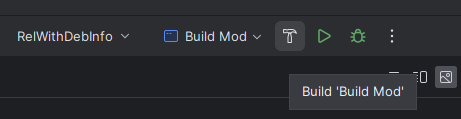
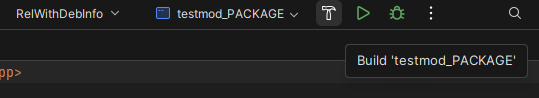
Update CLion docs + add linux (#64)
* update tutorial for clion

* add linux clion docs

diff --git a/getting-started/ide-setup.md b/getting-started/ide-setup.md
@@ -128,43 +128,74 @@ If there are errors similar to VS Code (such as `#include <Geode/modify/MenuLaye
 
 # CLion
 
-No additional plugins are needed - the only thing you need to do is to set the CMake options correctly. When you open your mod's directory in CLion for the first time, you'll be met with an Open Project Wizard:
+* [CLion on Windows](#clion-on-windows)
+* [CLion on Linux](#clion-on-linux)
+
+## CLion on Windows
+
+No additional plugins are needed - the only thing you need to do is to configure your toolchain correctly. When you open your mod's directory in CLion for the first time, you'll be met with an Open Project Wizard:
 
 ![Image showing the CLion Open Project Wizard](/assets/clion_openprojectwizard.png)
 
-Here you need to make sure that:
+If this is the first time you're launching CLion, click the "Manage toolchains..." button, which will open a window where you can add a new toolchain.
 
-1. Build type is set to `Release` or `RelWithDebInfo`; it cannot be Debug
-2. Toolchain is set to *Visual Studio*
-3. Generator is set to *Visual Studio 17 2022* or newer
-4. Build directory is set to *build*
+Here's an example of how to set up Visual Studio toolchain:
+
+![Image showing configured Visual Studio toolchain in CLion](/assets/clion_toolchainmsvc.png)
+
+And here's an example of how to set up Clang toolchain:
+
+![Image showing configured Clang toolchain in CLion](/assets/clion_toolchainllvm.png)
+
+After that, in the Open Project Wizard, you need to make sure that:
+
+1. Build type is set to `Release` or `RelWithDebInfo` (we recommend `RelWithDebInfo`, since `Debug` might cause obscure crashes)
+2. Toolchain is set to *Visual Studio* or *Clang/LLVM*
+3. Generator is set to *Visual Studio 17 2022* or *Ninja* (if you have it installed)
 
 In the end it should look like this:  
 
 ![Image showing the CLion Open Project Wizard set up for Geode](/assets/clion_openprojectwizardsetup.png)
 
-Now you can press OK and CMake will run for the first time. The setup **will fail** until you build the project for the first time. In order to do that, go to the top right corner of the window where you'll see a dropdown saying `Add Configuration`.
+Now you can press OK and CMake will run for the first time. Wait until it finishes, and you should see a dropdown in the top right corner of the window that says `NameOfTheMod` (or whatever you called your project).
+Click on it, and pick `NameOfTheMod_PACKAGE` instead, which will trigger post build steps and package/install the mod to Geometry Dash.
 
-![Image showing the CLion Add Configuration dropdown](/assets/clion_addconfiguration.png)
+![Image showing the CLion Configuration dropdown](/assets/clion_addconfiguration.png)
 
-Click it and choose `Edit Configurations` and you'll be met with the Run/Debug Configurations window. Inside of it, click the plus button in the top left corner of the window and choose `CMake Application` from the popup:
-
-![Image showing the CLion Run/Debug Configurations window](/assets/clion_rundebugwindow.png)
-
-In the created configuration, click the `Target` dropdown and choose `All Targets`. You can also change the name to something else than "Unnamed".  
-
-![Image showing the CLion Run/Debug Configurations window with a configuration set up to compile the mod](/assets/clion_rundebugsetup.png)
-
-Once that's done, you can click Apply and then OK. If it hasn't already, wait for CMake to finish its run. It might look something like this, with a line at the end saying `[Failed to reload]`.
-
-![Image showing the failed CMake run output](/assets/clion_cmakerunfailed.png)
-
-Now click the hammer icon in the top right corner next to build the mod for the first time - **make sure that the dropdowns next to it say `RelWithDebInfo` and `Build Mod`** (or however you called your build task in the step before):
+Now click the hammer icon in the top right corner next to build the mod:
 
 ![Image showing the build button in CLion](/assets/clion_buildmod.png)
 
-The build should end with a message saying `Build finished` and (assuming you ran `geode config setup` before) the mod should now be installed to Geometry Dash. In order to make all the IDE features work correctly, reload CMake now, this run should end successfully with a message saying `[Finished]` at the end: 
+The build should end with a message saying `Build finished` and (assuming you ran `geode config setup` before) the mod should now be installed to Geometry Dash.
+
+Don't forget to reload CMake after you add new files to the project.
 
 ![Image showing how to rerun CMake in CLion](/assets/clion_reloadcmake.png)
 
-Don't forget to reload CMake after you add new files to the project.
+## CLion on Linux
+
+Pretty much the same as on [Windows](#clion-on-windows) except for setting up the toolchain.
+
+First step is to create an environment file with the following content:
+
+```bash
+export GEODE_SDK=$HOME/Documents/Geode
+export SPLAT_DIR=$HOME/.local/share/Geode/cross-tools/splat
+export CMAKE_TOOLCHAIN_FILE=$HOME/.local/share/Geode/cross-tools/clang-msvc-sdk/clang-msvc.cmake
+export HOST_ARCH=x86_64
+```
+
+If the toolchain and/or splat weren't installed via `geode sdk install-linux`, modify the paths accordingly.
+
+Save it as `geode-env.sh` in your home directory (or wherever you want, just remember the path).
+
+> :warning: If you're using a non default shell (like fish), you might need to edit the environment file to use the correct syntax. For example, fish uses `set -gx VAR value` instead of `export VAR=value`.
+
+Now, in the toolchain settings on the right side of the **Name** field, click the *Add environment* button and select the file you just created.
+
+![Image showing how to configure crosscompiler toolchain in CLion](/assets/clion_toolchainlinux.png)
+
+After that, you can follow the same steps as on Windows to build your mod.
+
+For some specific mods/libraries (most people won't need this), you might also want to add the clang-cl toolchain. Everything is the same as with clang, except you have to use the `clang-cl-msvc.cmake` toolchain file instead. (Copy the environment file and change the `CMAKE_TOOLCHAIN_FILE` variable to point to the `clang-cl-msvc.cmake` file.)  
+Also make sure you're using `clang-cl` as the compiler in the toolchain settings.
